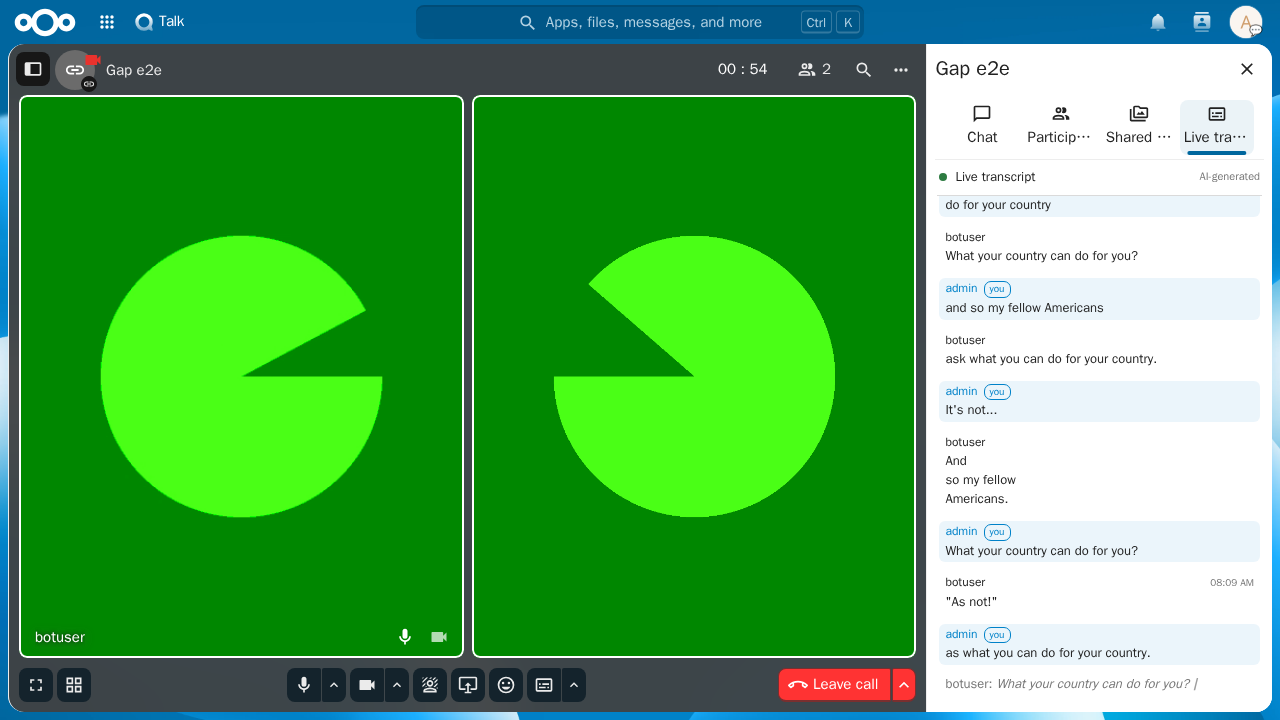
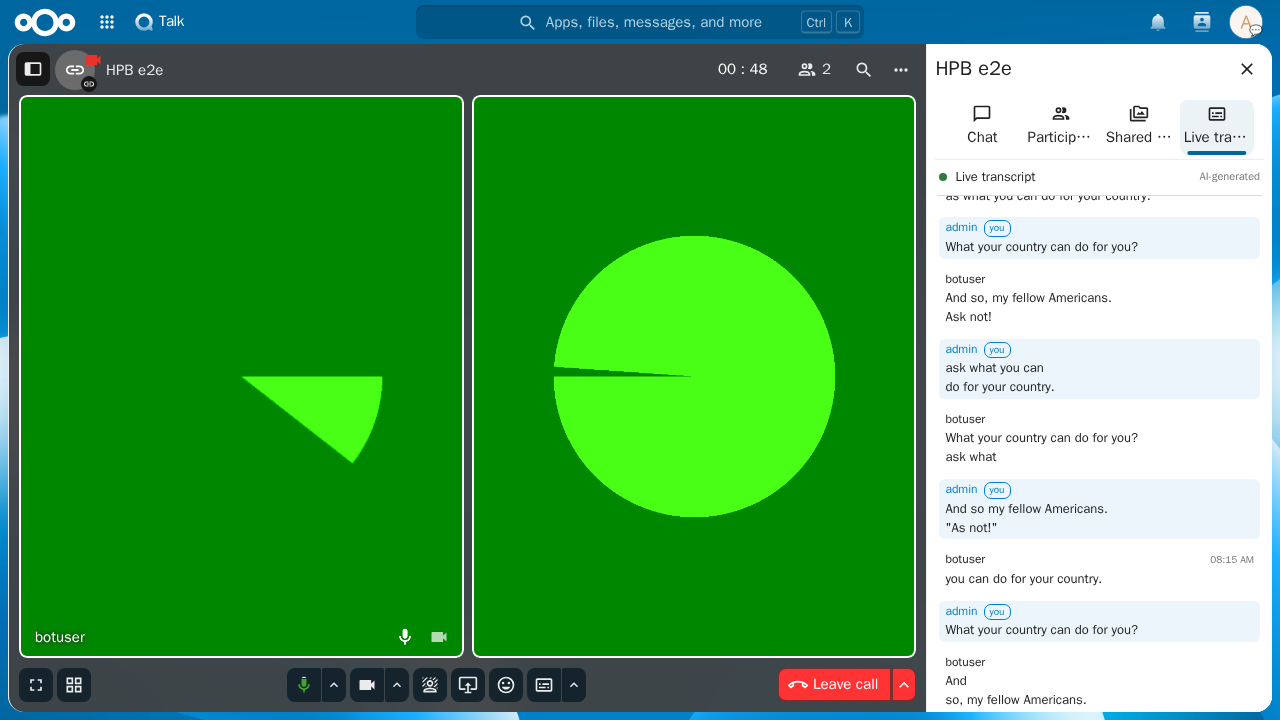
docs: HPB live feed + gap-fill poll, auto-enable captions
Claude-Session: https://claude.ai/code/session_01WEKiygi6s6G31srWmN5rnz

diff --git a/ui/README.md b/ui/README.md
@@ -6,7 +6,9 @@ viewer's own lines, which Talk's built-in overlay drops.
 
 It mounts as an extra **tab in Talk's right sidebar**, next to Chat /
 Participants / Shared items, rather than a floating window, and hides Talk's
-native caption overlay while it is on (the sidebar replaces it).
+native caption overlay while it is on (the sidebar replaces it). Activating it
+also turns Talk's live captions on for you, so you are on the feed immediately
+without clicking the CC button.
 
 ## How it reaches the page
 
@@ -27,31 +29,39 @@ People pick both up on the install page the app serves at
 
 ## How it gets the words
 
-The **server timeline is the single source of truth**. cassini-live transcribes
-every speaker in the call — not only those who enabled captions — and records
-who joined when, each entry tagged with a monotonic `seq`. The panel polls it:
+Two sources share **one seq space**, so they merge exactly:
 
 ```
- cassini-live ─ buffers finals (all speakers) + joins, each with a seq
-       │  GET /history?token=<room>&since=<lastSeq>  →  {entries, head}
-       ▼
- session.js (poll ~1.2s) ─▶ store.applyTimeline (idempotent by seq)
-                               ├─ finals → speaker blocks
-                               └─ joins  → "<name> joined" dividers   ─▶ sidebar tab view
- Talk's SimpleWebRTC 'transcript' (live) ─▶ tap ─▶ store partials (transient only)
+ cassini-live buffers every final (all speakers) + joins, each with a seq, and
+ sends each final over the HPB tagged with that same seq.
+
+   HPB ─ connection.on('message') {type:transcript, seq, final, message, sid} ─▶ live feed (instant)
+   HTTP ─ GET /history?token=<room>&since=<contiguousSeq>  (every ~3s) ─────────▶ gap-fill + joins + catch-up
+                         │
+            store: reorder buffer over the shared seq
+              seq == applied+1 → render, advance, flush held
+              seq >  applied+1 → hold (out of order / a gap the poll will fill)
+              seq <= applied   → already have it, skip     ─▶ sidebar tab view
+   live partials (no seq) ─────────────────────────────────▶ transient italic line
 ```
 
-Why poll instead of relying on live `'transcript'` events: a live event only
-reaches a session from the moment it enables captions, so anything said before —
-including the viewer's *own* words spoken before clicking the captions button —
-would be dropped. Polling the server buffer (which holds everything, regardless
-of who subscribed) closes that gap. The live hook is kept only for in-progress
-**partials** (shown transient, cleared when the final lands via the poll).
+The live feed gives near-instant finals; the poll is a backstop that fills any
+gap the live feed missed and delivers joins and the initial catch-up. Because
+both carry the server's `seq`, the merge is exact — no duplicates, no drops, no
+content-matching.
+
+Why read the live feed from `connection.on('message')` and not
+`SimpleWebRTC.on('transcript')`: the filtered `transcript` event keeps only
+`{id, message, languageId, final}` and **drops** the `seq`, but the raw
+`message` event (what Talk's own SimpleWebRTC listens to) carries the full
+payload. `window.signalingSocket` is a raw fallback. It also still sees the
+viewer's own lines (no `CallParticipantModel` filtering).
 
 `session.js` scopes everything per conversation: it watches the room and call
-tokens and resets on a new call or a switch to another conversation; an ended
-call's transcript stays until the viewer navigates away. Join events render as a
-divider per participant — the viewer's own reads "You joined here".
+tokens, resets on a new call or a switch to another conversation (and enables
+captions for the session so it is on the feed), and polls `/history` for gaps.
+An ended call's transcript stays until the viewer navigates away. Join events
+render as a divider per participant — the viewer's own reads "You joined here".
 
 Speaker names resolve in the browser (the payload only carries the speaker's
 signalling session id). The authoritative source is `connection.joinedUsers`,
@@ -65,14 +75,18 @@ roster → peer `nick` → `nick` events → participant card DOM → shortened 
 
 ## Code layout
 
-- `src/store.js` — the timeline: ordered items (`block` | `join`) applied
-  idempotently by `seq`, plus a transient partials channel; `reset()`.
-- `src/tap.js` — attaches to `OCA.Talk.SimpleWebRTC` for the connection (room /
-  call tokens, own session id) and feeds in-progress partials to the store.
+- `src/store.js` — the timeline: a reorder buffer over the shared `seq` (live +
+  poll merge), ordered items (`block` | `join`), a transient partials channel,
+  `reset()`.
+- `src/tap.js` — the live feed: subscribes to `connection.on('message')` for the
+  raw payload (incl. `seq`), emits finals and partials, exposes the connection
+  (room / call tokens, own session id), re-attaches on rejoin.
 - `src/names.js` — prefix-aware name resolution (see above).
-- `src/history.js` — `fetchHistory(token, since)` for the timeline poll.
-- `src/session.js` — conversation/call scoping and the ~1.2s poll loop; resets on
-  a new call or a change of conversation; an ended call stays until navigation.
+- `src/history.js` — `fetchHistory(token, since)` for the gap-fill poll.
+- `src/session.js` — conversation/call scoping and the ~3s gap-fill poll;
+  resets + enables captions on a new call or a change of conversation; an ended
+  call stays until navigation.
+- `src/captions.js` — turns Talk's live captions on for the session (best-effort).
 - `src/panel.js` — `createTranscriptView`: renders the timeline (speaker blocks,
   "<name> joined" dividers, transient partials), replaying current state on
   mount, into a shadow root the caller supplies. CSP discipline throughout: no
